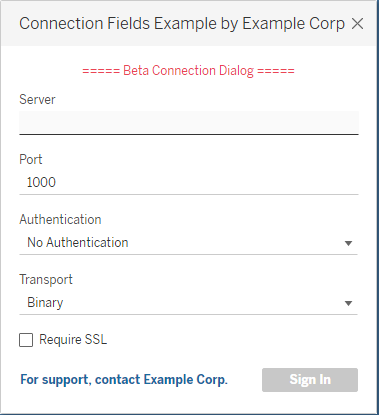
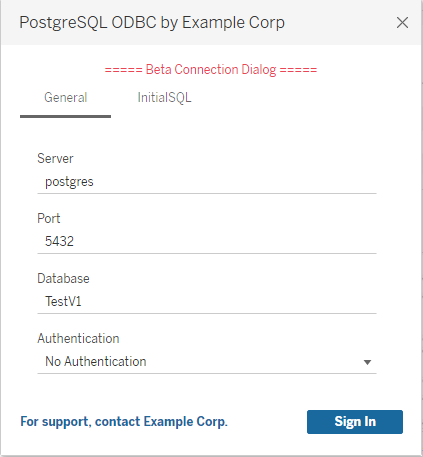
responded to feedback, updated connection dialog pngs

diff --git a/docs/mcd.md b/docs/mcd.md
@@ -1,14 +1,14 @@
-# Modular Connection Dialog (MCD)
+# Tableau Connector
 
 **IMPORTANT:** This is alpha software and should be used in a test environment. Do not deploy the connector to a production environment.
 
-MCD is a new feature that enables a more fully data-driven connection dialog for plug in connectors. Additionally, it provides some control over the metadata hierarchy elements--Database, Schema, and Table--both in the connection dialog and in the schema viewer, which the user sees after the connection is established. 
+Tableau Connector is a new feature that enables a more fully data-driven connection dialog for plugin connectors. Additionally, it provides some control over the metadata hierarchy elements--Database, Schema, and Table--both in the connection dialog and in the schema viewer, which the user sees after the connection is established.
 
 This feature is new in 2020.2. It is an alpha feature, and as such it is available in Desktop only. In future releases it will become available in other Tableau products including Server and Prep. 
 
-# How to Use MCD
+# How to Use Tableau Connector
 
-To use MCD, in the manifest replace `<connection-dialog>`, which references a .tcd file, with `<connection-fields>`, which references a .xml file, described below. The connector will fail to load if both elements appear in the manifest. 
+To use Tableau Connector, in the manifest replace `<connection-dialog>`, which references a .tcd file, with `<connection-fields>`, which references a .xml file, described below. The connector will fail to load if both elements appear in the manifest.
 
 If you wish to modify metadata hierarchy behavior you can add to the manifest a `<connection-metadata>` element, which also references a .xml file and is described below. 
 
@@ -19,7 +19,7 @@ If you wish to modify metadata hierarchy behavior you can add to the manifest a 
 
   <connector-plugin class=...>
     ...
-    <connection-fields   file='modular-dialog.xml'/>       <!-- use this instead of connection-dialog -->
+    <connection-fields   file='connection-fields.xml'/>    <!-- use this instead of connection-dialog -->
     <connection-metadata file='connection-metadata.xml'/>  <!-- add this to modify metadata hierarchy behavior -->
     <connection-resolver file="connectionResolver.tdr"/>
     <dialect file='dialect.tdd'/>
@@ -46,7 +46,7 @@ Each connection attribute is represented by a field element in the XML. The fiel
 
 | Name  | Meaning | Optional? | Value Notes | Other Notes |
 | ----  | ------- | --------- | ----------- | ----------- |
-| name  | Unique name of the attribute, which is used in the ConnectionBuilder() | No | Names must be unique, and cannot be any of the reserved names `dbname`, `schema`, `tablename`. | If there is a Tableau-defined name for this attribute, that name must be used. See [Tableau-defined attribute names](https://gitlab.tableausoftware.com/connectivity/connector-plugin-sdk-internal/blob/master/docs/attributes.md). <br> **TODO correct link** |
+| name  | Unique name of the field, which is used in the ConnectionBuilder() | No | Names must be unique, and cannot be any of the reserved names `dbname`, `schema`, `tablename`. | If there is a Tableau-defined name for this attribute, that name must be used. See [Tableau-defined attribute names](https://gitlab.tableausoftware.com/connectivity/connector-plugin-sdk-internal/blob/master/docs/attributes.md). <br> **TODO correct link** |
 | label | Label that appears on the connection dialog for the field | No | | |
 | value-type | Dictates the default validation rule and the UI widget | No | Allowed Values / UI Widget Type <br> <ul><li>`string` / text box</li><li>`option` / drop-down</li><li>`boolean` / checkbox</li><li>`file` / file picker</li> | In the 2020.2 release `file` is not supported. |
 | default-value | Default value for the attribute | Yes	| Default values by value-type <br> <ul><li>string: `""`</li><li>option: first option</li><li>boolean: `false`</li><li>file: `""`</li></ul>| |
@@ -62,7 +62,7 @@ It has the following XML attributes.
 
 | Name  | Meaning | Optional? | Value Notes | Other Notes |
 | ----  | ------- | --------- | ----------- | ----------- |
-| reg-exp | Regular Expression | No | | |
+| reg-exp | Regular Expression | No | | In the 2020.2 release the validation rule is not enforced. |
 
 ### `<boolean-options>`
 
@@ -103,7 +103,7 @@ A child of selection-group, this represents one entry in the drop-down. It has t
 
 An optional child of field or selection group, this is used for conditional display. It specifies whether the field or selection group should be visible in the dialog based on the values the user has specified for other fields. 
 
-Multiple condition elements can be used, and will be OR'd. That is, the field or selection group will be visible when any one of the `<condition>` elements is matched. The connector will not load if there are circular references. 
+Multiple condition elements can be used, and will be OR'd. That is, the field or selection group will be visible when any one or more of the `<condition>` elements is matched. The connector will not load if there are circular references.
 
 Hence, this is a container element for the condition elements. It has no XML attributes. 
 
@@ -119,11 +119,11 @@ Hence, this is a container element for the condition elements. It has no XML att
 
 The Connection Fields file below demonstrates both conditional display of fields and a non-editable field. 
 
-The images below show the Connection Dialog produced using this file. The left side shows the dialog as it is initially displayed, and the right side shows what it changes to when the user selects Authentication Kerberos. 
+The images below show the Connection Dialog produced using this file. The left side shows the dialog as it is initially displayed, after the user enters a Server name. Note that the default Authentication option is No Authentication, and the Sign In button is enabled. The right side shows what it changes to when the user selects Authentication Username and Password. 
 
 <p float="left">
-  <img src="{{ site.baseurl }}/assets/mcd-connection-dialog-1.png" alt="Connection Dialog as initially displayed" align=top hspace=40/>
-  <img src="{{ site.baseurl }}/assets/mcd-connection-dialog-2.png" alt="Connection Dialog after user selects Authentication Kerberos" align=top />
+  <img src="{{ site.baseurl }}/assets/mcd-connection-dialog-1.png" alt="Connection Dialog as initially displayed, after the user enters a Server name" align=top hspace=40/>
+  <img src="{{ site.baseurl }}/assets/mcd-connection-dialog-2.png" alt="Connection Dialog after user selects Authentication Username and Password" align=top />
 </p>
 
 AutoReconnect is an example of a non-editable field. It will not be visible in the connection dialog, but its default value of `0` will be available in ConnectionBuilder() to add to the Connection String.
@@ -137,110 +137,26 @@ AutoReconnect is an example of a non-editable field. It will not be visible in t
     <validation-rule reg-exp="^(([a-zA-Z]|[a-zA-Z][a-zA-Z0-9\-]*[a-zA-Z0-9])\.)*([A-Za-z]|[A-Za-z][A-Za-z0-9\-]*[A-Za-z0-9])$"/>
   </field>
  
-  <field name="port" label="Port" category="endpoint" value-type="string" default-value="1000"/>
+  <field name="port" label="Port" category="endpoint" value-type="string" default-value="5432"/>
  
-  <field name="authentication-type" label="Authentication" category="authentication" value-type="selection" >
+  <field name="authentication" label="Authentication" category="authentication" value-type="selection" >
     <selection-group>
-      <option value="0" label="No Authentication"/>
-      <option value="1" label="Kerberos"/>
-      <option value="2" label="Username"/>
-      <option value="3" label="Username and Password"/>
-      <option value="6" label="Microsoft Azure HDInsight Service"/>
+      <option value="auth-none" label="No Authentication"/>
+      <option value="auth-user" label="Username"/>
+      <option value="auth-user-pass" label="Username and Password"/>
     </selection-group>
   </field>
- 
-  <field name="transport-type" label="Transport" category="authentication" value-type="selection" >
 
-    <selection-group>
-      <conditions>
-        <condition field="authentication-type" value="0"/>
-      </conditions>
-      <option value="0" label="Binary"/>
-      <option value="2" label="HTTP"/>
-    </selection-group>
- 
-    <selection-group>
-      <conditions>
-        <condition field="authentication-type" value="1"/>
-      </conditions>
-      <option value="1" label="SASL"/>
-      <option value="2" label="HTTP"/>
-    </selection-group>
- 
-    <selection-group>
-      <conditions>
-        <condition field="authentication-type" value="2"/>
-      </conditions>
-      <option value="1" label="SASL"/>
-    </selection-group>
-   
-    <selection-group>
-      <conditions>
-        <condition field="authentication-type" value="3"/>
-      </conditions>
-      <option value="0" label="Binary"/>
-      <option value="1" label="SASL"/>
-      <option value="2" label="HTTP"/>
-    </selection-group>
- 
-    <selection-group>
-      <conditions>
-        <condition field="authentication-type" value="6"/>
-      </conditions>
-      <option value="2" label="HTTP"/>
-    </selection-group>
- 
-  </field>
- 
-  <field name="kerberos-realm" label="Realm" category="authentication" value-type="string">
-    <conditions>
-      <condition field="authentication-type" value="1"/>
-    </conditions>
-  </field>
- 
-  <field name="kerberos-host" label="Host FQDN" category="authentication" value-type="string">
-    <conditions>
-      <condition field="authentication-type" value="1"/>
-    </conditions>
-  </field>
- 
-  <field name="kerberos-service" label="Service Name" category="authentication" value-type="string">
-    <conditions>
-      <condition field="authentication-type" value="1"/>
-    </conditions>
-  </field>
- 
   <field name="username" label="Username" category="authentication" value-type="string">
     <conditions>
-      <condition field="authentication-type" value="2"/>
-      <condition field="authentication-type" value="3"/>
-      <condition field="authentication-type" value="6"/>
+      <condition field="authentication" value="auth-user"/>
+      <condition field="authentication" value="auth-user-pass"/>
     </conditions>
   </field>
  
   <field name="password" label="Password" category="authentication" value-type="string" secure="true">
     <conditions>
-      <condition field="authentication-type" value="3"/>
-      <condition field="authentication-type" value="6"/>
-    </conditions>
-  </field>
- 
-  <field name="http-path" label="HTTP Path" category="authentication" value-type="string">
-    <conditions>
-      <condition field="transport-type" value="2"/>
-    </conditions>
-  </field>
- 
-  <field name="SSL" label="Require SSL" value-type="boolean" default-value="">
-    <boolean-options>
-      <false-value value="" />
-      <true-value value="1" />
-    </boolean-options>
-  </field>
- 
-  <field name="TrustedCerts" label="Custom SSL certificate file" value-type="file">
-    <conditions>
-      <condition field="SSL" value="1"/>
+      <condition field="authentication" value="auth-user-pass"/>
     </conditions>
   </field>
  
@@ -252,9 +168,11 @@ AutoReconnect is an example of a non-editable field. It will not be visible in t
 
 # The Connection Metadata File
 
-The Connection Metadata file provides some control over the metadata hierarchy elements Database, Schema, and Table. For example, it can be used to:
+The Connection Metadata file provides some limited control over the metadata hierarchy elements Database, Schema, and Table. For example, it can be used to:
 - provide a default value for Database on the connection dialog, and
 - supress the Database, Schema, or Table selectors from the schema viewer, which the user sees after the connection is established.
+
+If you don't provide a Connection Metadata file, then by default all three selectors will be shown.
 
 The Connection Metadata file ([XSD](https://github.com/tableau/connector-plugin-sdk/blob/dev-2020.2/validation/connector_plugin_metadata.xsd)) is the one named in the manifest in the `<connection-metadata>` element. Here we discuss the structure of this file. 
 
